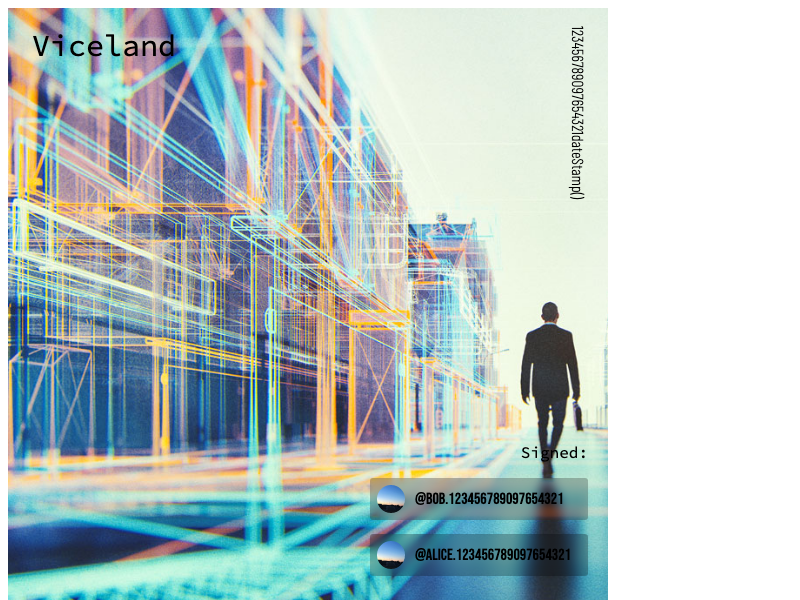
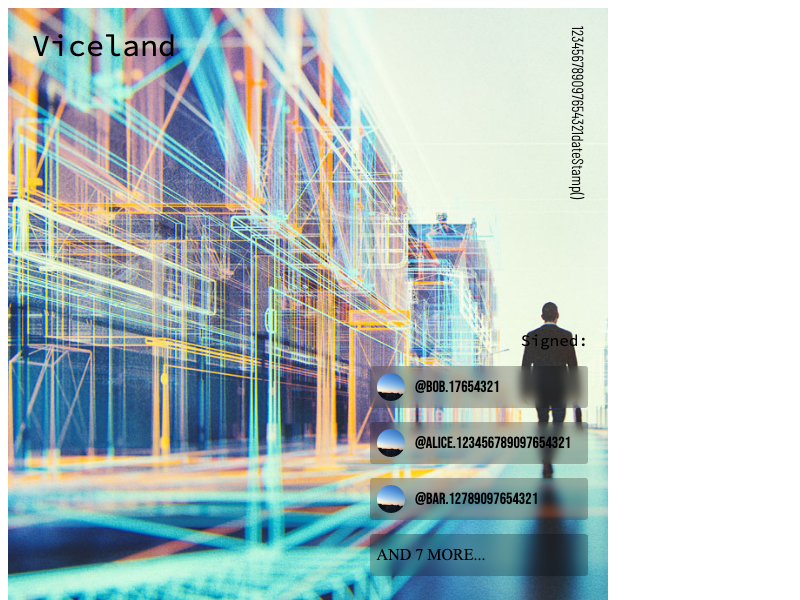
added logic to handle many autographs

diff --git a/app-poc/index.js b/app-poc/index.js
@@ -21,13 +21,62 @@ imageGenerator(
       photoURL: "https://pbs.twimg.com/profile_images/1196498439304929281/c87NCmb0_400x400.jpg",
       name: "Bob",
       twitterId: "@Bob",
-      mark: "123456789097654321"
+      mark: "17654321"
     },
     {
       title: "Alice",
       photoURL: "https://pbs.twimg.com/profile_images/1196498439304929281/c87NCmb0_400x400.jpg",
       name: "Auto",
       twitterId: "@Alice",
+      mark: "123456789097654321"
+    },
+    {
+      title: "Bar",
+      photoURL: "https://pbs.twimg.com/profile_images/1196498439304929281/c87NCmb0_400x400.jpg",
+      name: "Bar",
+      twitterId: "@Bar",
+      mark: "12789097654321"
+    },
+    {
+      title: "Bar",
+      photoURL: "https://pbs.twimg.com/profile_images/1196498439304929281/c87NCmb0_400x400.jpg",
+      name: "Bar",
+      twitterId: "@Bar",
+      mark: "123456789097654321"
+    },
+    {
+      title: "Bar",
+      photoURL: "https://pbs.twimg.com/profile_images/1196498439304929281/c87NCmb0_400x400.jpg",
+      name: "Bar",
+      twitterId: "@Bar",
+      mark: "123456789097654321"
+    },
+    {
+      title: "Bar",
+      photoURL: "https://pbs.twimg.com/profile_images/1196498439304929281/c87NCmb0_400x400.jpg",
+      name: "Bar",
+      twitterId: "@Bar",
+      mark: "89097654321"
+    },
+    {
+      title: "Bar",
+      photoURL: "https://pbs.twimg.com/profile_images/1196498439304929281/c87NCmb0_400x400.jpg",
+      name: "Bar",
+      twitterId: "@Bar",
+      mark: "1234455553456789097654321"
+    },
+    {
+      title: "Bar",
+      photoURL: "https://pbs.twimg.com/profile_images/1196498439304929281/c87NCmb0_400x400.jpg",
+      name: "Bar",
+      twitterId: "@Bar",
+      mark: "12789097654321"
+    },
+    {
+      title: "Bar",
+      photoURL: "https://pbs.twimg.com/profile_images/1196498439304929281/c87NCmb0_400x400.jpg",
+      name: "Bar",
+      twitterId: "@Bar",
       mark: "123456789097654321"
     },
     {

diff --git a/app-poc/imageGenerator.js b/app-poc/imageGenerator.js
@@ -26,7 +26,7 @@ module.exports = async (
     document.getElementById('mark').innerHTML = data[data.length - 1].mark + "dateStamp()";
     // add labels
     data.map((label, index) => {
-      if (index < 2) {
+      if (index < 3) {
         const labelTemplate = `
           <div class="label">
             <img
@@ -42,6 +42,14 @@ module.exports = async (
         document.getElementById('label-container').innerHTML += labelTemplate;
       }
     });
+    // Add extra number of autographs
+    if (data.length > 3) {
+      document.getElementById('label-container').innerHTML += `
+      <div class="label">
+        AND ${data.length -3} MORE...
+      </div>
+    `;;
+    }
     // testing to see if image loads
     await setTimeout(() => {}, 3000);
 
